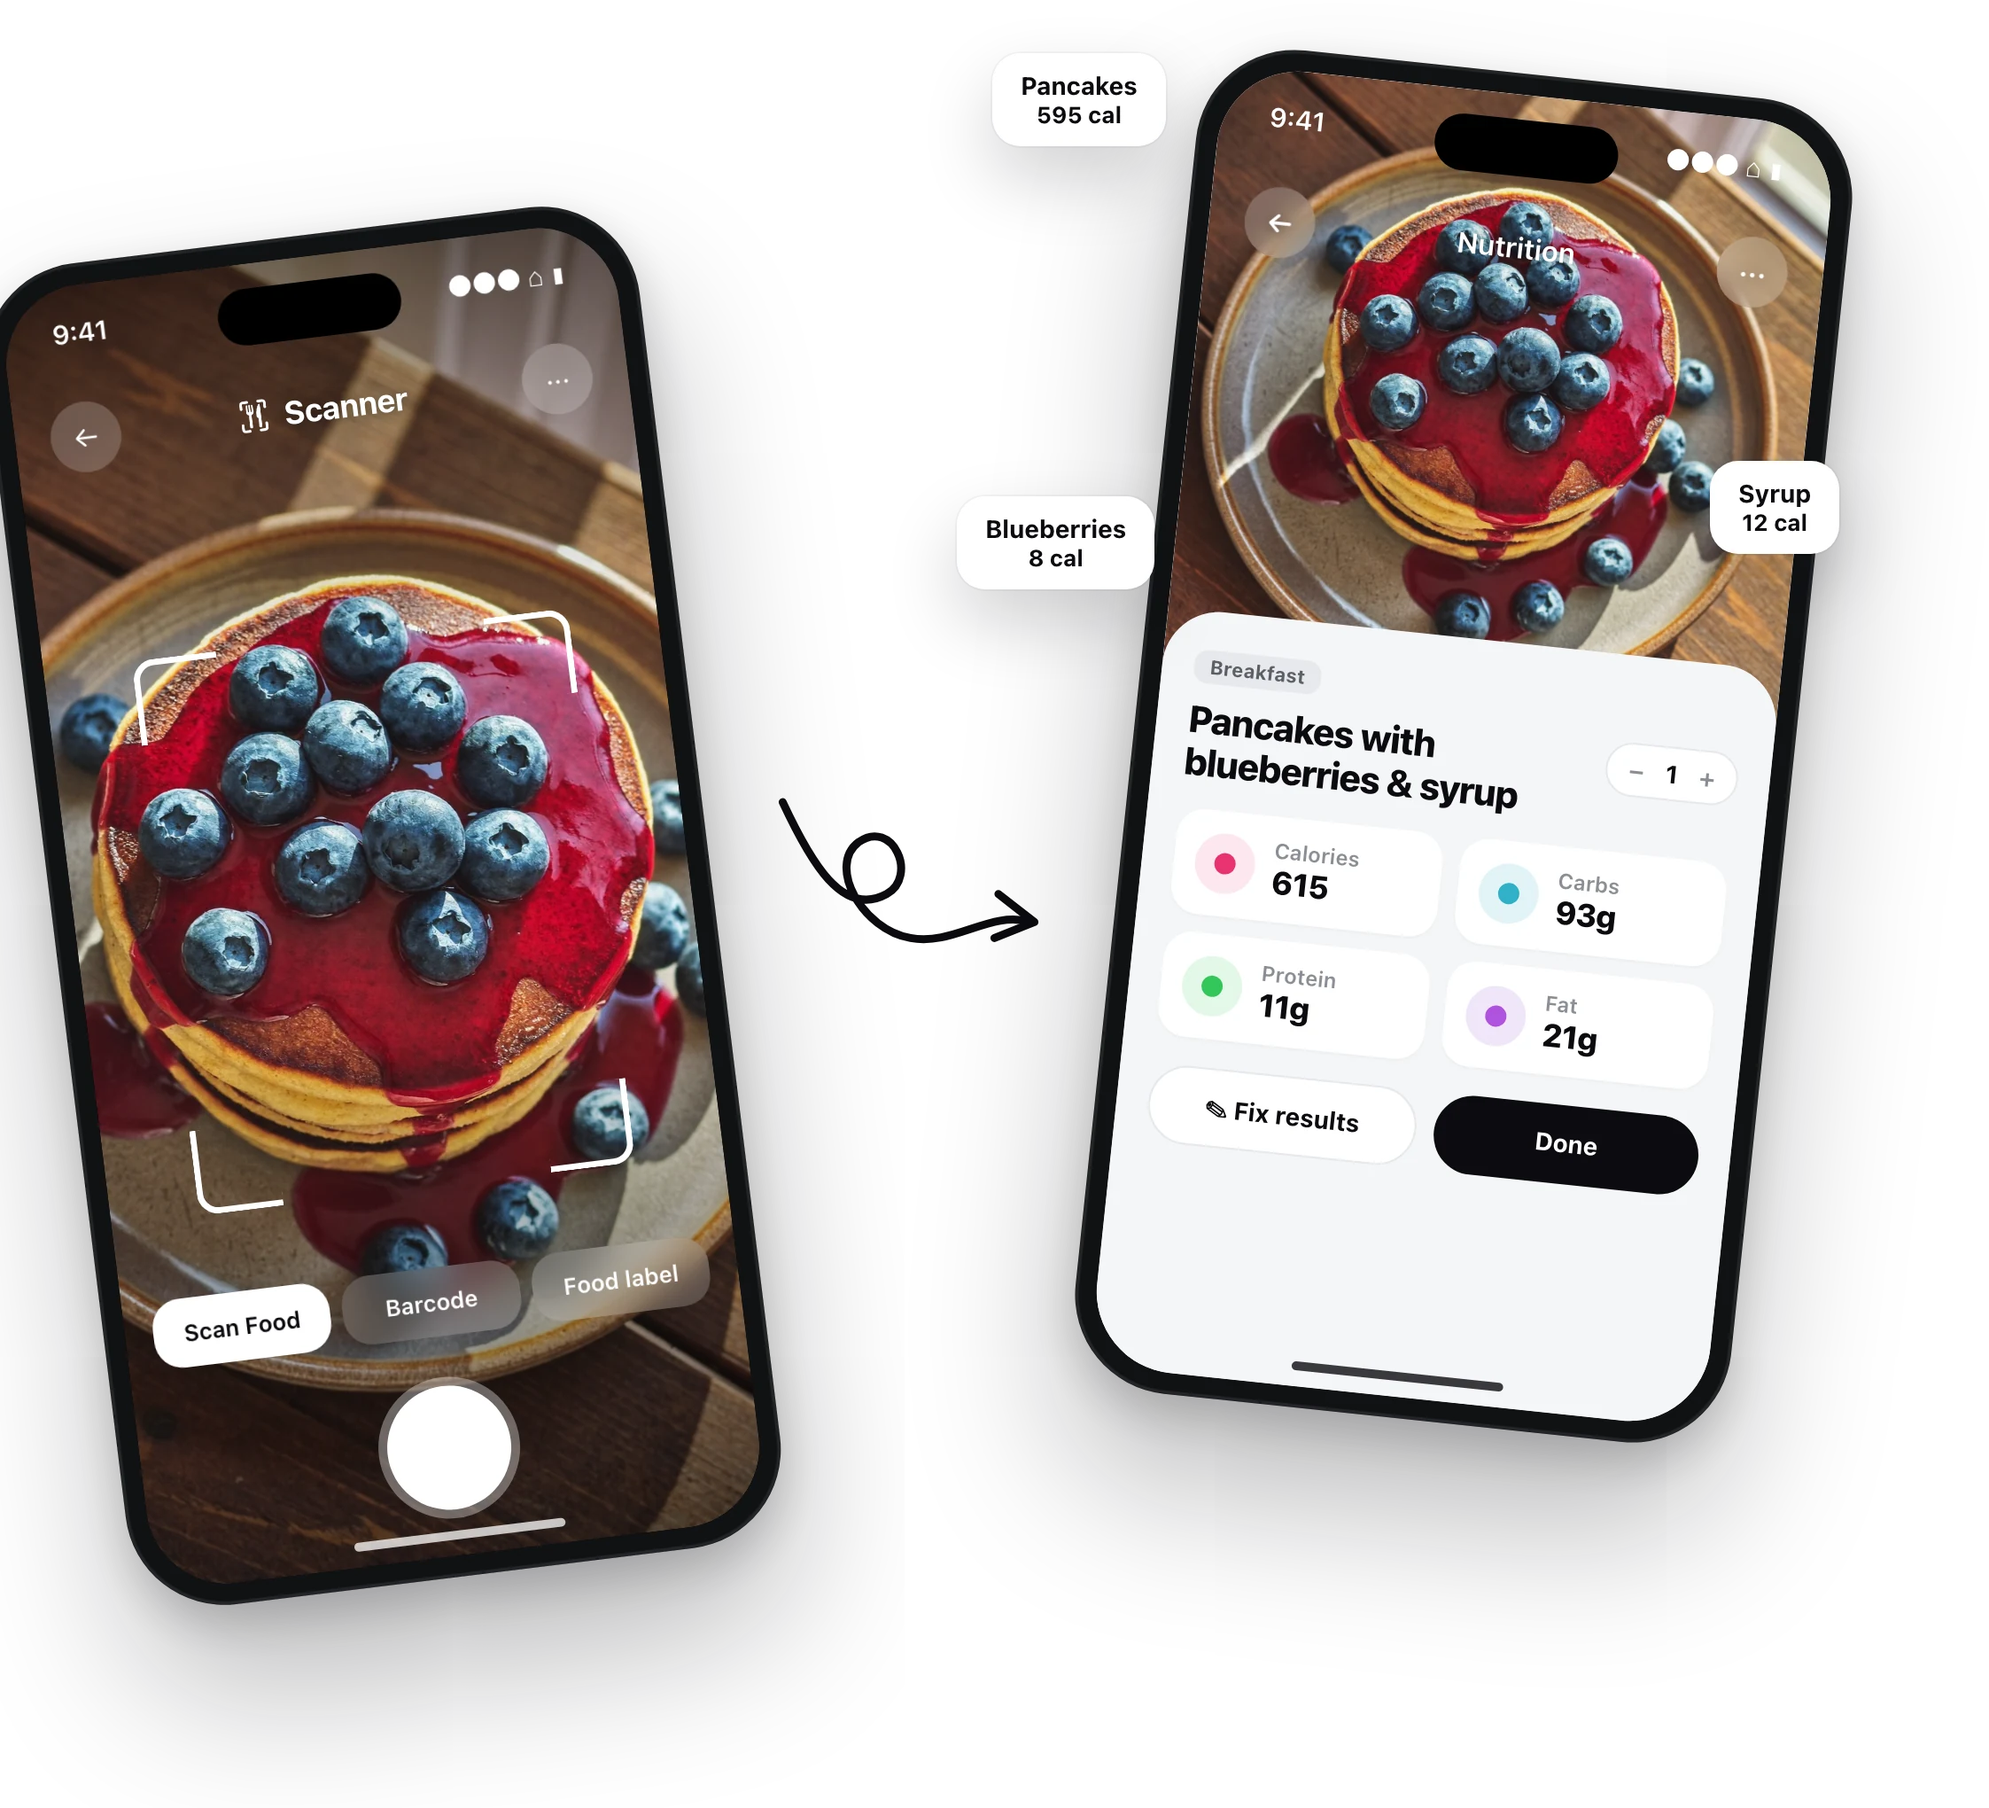
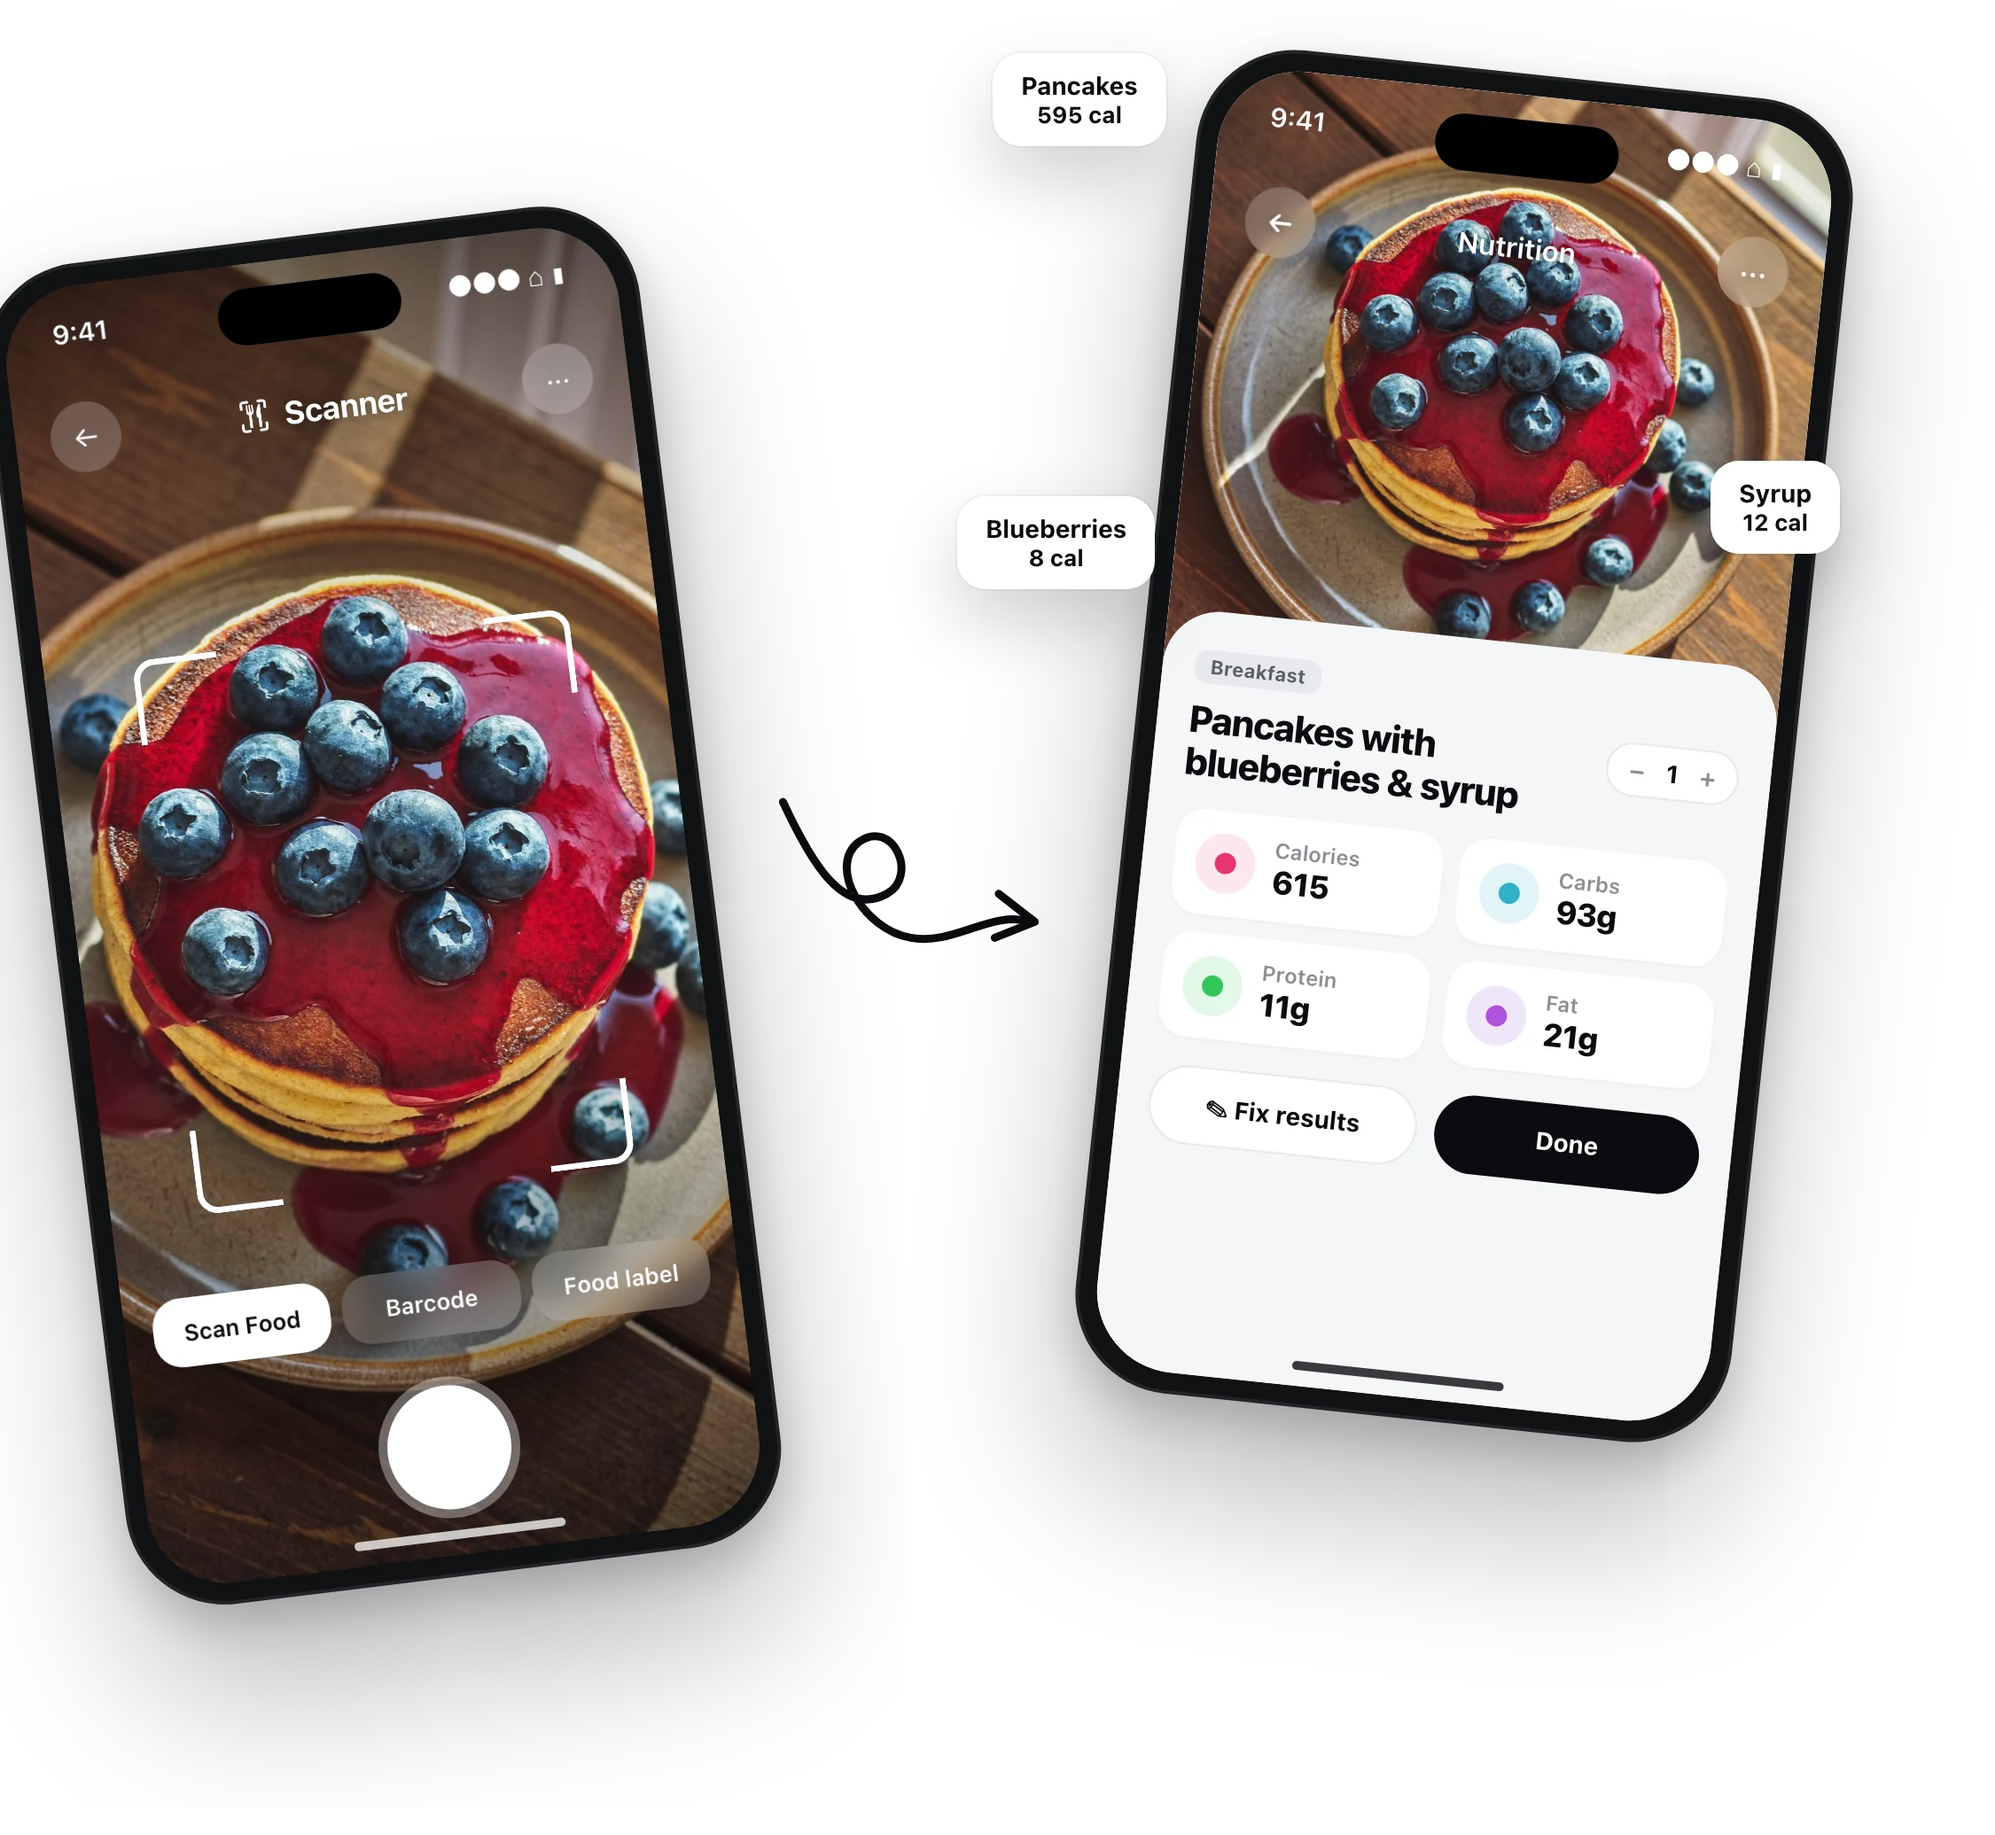
Hero: bigger canvas so the tilted phone isn't clipped
Claude-Session: https://claude.ai/code/session_01PePDGwTTh6gigukHVqSA3G

diff --git a/index.html b/index.html
@@ -45,20 +45,20 @@
 
   /* hero */
   .hero{padding:48px 0 0;overflow:hidden}
-  .hero .wrap{display:grid;grid-template-columns:.9fr 1.1fr;gap:16px;align-items:center}
+  .hero .wrap{display:grid;grid-template-columns:.85fr 1.15fr;gap:24px;align-items:center}
   .kicker{font-size:13px;font-weight:800;letter-spacing:.16em;text-transform:uppercase;color:var(--ink3);margin:0 0 18px}
   h1{font-size:66px;line-height:1.0;letter-spacing:-.045em;margin:0 0 22px;font-weight:900;text-wrap:balance}
   h1 span{color:var(--ink3);font-weight:800}
   .lede{font-size:20px;line-height:1.5;color:var(--ink2);max-width:24em;margin:0 0 34px;font-weight:400}
   .cta{display:flex;flex-direction:column;align-items:flex-start;gap:12px}
   .cta .fine{font-size:14px;color:var(--ink3);font-weight:500}
-  .hero-img{width:112%;max-width:none;height:auto;margin-left:-6%}
+  .hero-img{width:100%;height:auto}
   @media (max-width:980px){
     .hero{padding:24px 0 0}
     .hero .wrap{grid-template-columns:1fr;gap:0}
     h1{font-size:46px}
     .lede{font-size:18px}
-    .hero-img{width:110%;margin-left:-5%}
+    .hero-img{width:100%}
   }
 
   /* proof strip */
@@ -161,7 +161,7 @@
         <span class="fine">Free to download · 3-day free trial of Pro</span>
       </div>
     </div>
-    <img class="hero-img" src="assets/hero.webp" alt="Eat IQ scanning a plate of blueberry pancakes and returning calories, carbs, protein and fat" width="2245" height="2040" fetchpriority="high">
+    <img class="hero-img" src="assets/hero.webp" alt="Eat IQ scanning a plate of blueberry pancakes and returning calories, carbs, protein and fat" width="2251" height="2071" fetchpriority="high">
   </div>
 </header>
 

diff --git a/hero-source.html b/hero-source.html
@@ -2,7 +2,7 @@
 :root{--pink:#e8336f;--green:#34c759;--teal:#30b0c7;--purple:#af52de;--ink:#0b0b0f;--ink3:#8b8e95}
 *{box-sizing:border-box}
 body{margin:0;background:transparent;font-family:-apple-system,BlinkMacSystemFont,"SF Pro Text","SF Pro Display",Helvetica,Arial,sans-serif;-webkit-font-smoothing:antialiased}
-.stage{position:relative;width:1180px;height:1020px;overflow:hidden;padding:40px 60px}
+.stage{position:relative;width:1360px;height:1120px;overflow:visible;padding:60px 120px 60px 90px}
 .phone{position:absolute;width:372px;height:762px;border-radius:56px;background:#101114;padding:12px;box-shadow:0 50px 90px rgba(11,11,15,.28),0 10px 26px rgba(11,11,15,.18)}
 .phone::after{content:"";position:absolute;inset:0;border-radius:56px;box-shadow:inset 0 0 0 2px rgba(255,255,255,.08)}
 .screen{position:relative;width:100%;height:100%;border-radius:46px;overflow:hidden;background:#000}
